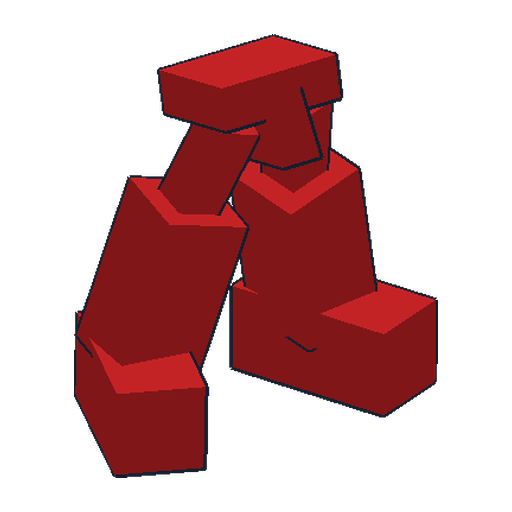
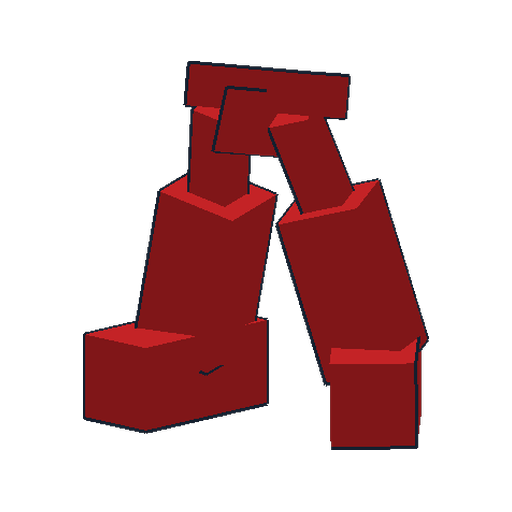
SERA: Godot再撮影19装備アイコンを共通指定プリセットで更新
* test: update shared equipment icon capture expectations to user preset

* test: update shared equipment icon capture expectations to user preset

* test: update shared equipment icon capture expectations to user preset

* test: verify exact user camera orientation on 19 native portraits

* presets: adopt supplied H02 Godot camera as shared equipment icon reference

* capture: render all nineteen parts using exact approved IRIS camera and 76-percent framing

* icons: embed exact user-approved camera metadata in all nineteen Godot PNGs

* ui: align live equipment part preview initial angle with approved icons

* ui: align live equipment part preview initial angle with approved icons

* validate: reject any of nineteen icons lacking approved exact camera settings

* docs: record approved shared 19-icon recapture and CI scope

* docs: record approved shared 19-icon recapture and CI scope

* docs: record approved shared 19-icon recapture and CI scope

* test: migrate H02 canonical capture preset; preserve legacy fallback validation

* assets: register all 19 verified SeraRig photographs [skip ci]

---------

Changed region(s): [[0.125, 0.0625, 0.875, 0.9375]]

diff --git a/tools/icon_studio/tag_all_icons.py b/tools/icon_studio/tag_all_icons.py
@@ -18,9 +18,14 @@ except ImportError:
     from validate_all_icons import ROOT, TARGET, catalog_entries
     from read_sera_icon_png import read_png_metadata
 
-# Matches the real SeraRig -Z front, +X right and +Y top.
-# This is also the initial camera on the live 3D part-viewer.
-OBLIQUE_POSE = (26.0, -146.0, 0.0)
+# One approved H02 preset supplies the exact camera/scale to all 19 icons.
+# Other blueprint IDs retain their own original model and material sources.
+PRESET_PATH = ROOT / "assets/ui/sera_icon_presets/H02.json"
+SHARED_PRESET = json.loads(PRESET_PATH.read_text(encoding="utf-8"))
+PRESET_RENDER = SHARED_PRESET["render"]
+PRESET_ANGLES = PRESET_RENDER["model_rotation_deg"]
+OBLIQUE_POSE = tuple(float(PRESET_ANGLES[axis]) for axis in ("x", "y", "z"))
+CAMERA_AUTO_FIT = float(PRESET_RENDER["auto_fit"])
 ANGLES = {slot: OBLIQUE_POSE for slot in (
     "head", "torso", "arms", "legs", "booster", "weapon_r", "weapon_l")}
 KEY = b"SERA_ICON_MANIFEST_V1"
@@ -55,20 +60,14 @@ def annotate_one(id_: str, entry: dict) -> dict:
             "rig_set": entry["rig_set"],
         },
         "render": {
-            "engine": "SERA Godot GL Compatibility native SubViewport",
+            "engine": PRESET_RENDER["engine"],
             "camera": "orthographic_front",
             "model_rotation_deg": dict(zip(("x", "y", "z"), angles)),
-            "auto_fit": 0.82,
-            "model_scale": 1.0,
-            "pan_clip": {"x": 0.0, "y": 0.0},
-            "outline": {
-                "enabled": True, "stroke_px_at_512": 3,
-                "crease_degrees": 80, "color": "#17212F",
-            },
-            "image": {
-                "width": 512, "height": 512, "background": "transparent",
-                "ui_frame_baked": False,
-            },
+            "auto_fit": CAMERA_AUTO_FIT,
+            "model_scale": PRESET_RENDER["model_scale"],
+            "pan_clip": PRESET_RENDER["pan_clip"],
+            "outline": PRESET_RENDER["outline"],
+            "image": PRESET_RENDER["image"],
             "mesh_transform": "Installed SeraRig MeshInstance3D global transforms",
             "texture_source": "Original in-game SeraRig mesh/material",
         },
@@ -77,8 +76,7 @@ def annotate_one(id_: str, entry: dict) -> dict:
         "outline": "scripts/sera_view_edges.gd + shaders/sera_view_edges.gdshader",
         "lighting": "scripts/main.gd::_build_world",
     }
-    # H02 now follows the same new user-approved camera as all other parts.
-    # The historical preset remains untouched for backward provenance.
+    # Every captured part uses the exact camera, framing, and outline preset.
     png = path.read_bytes()
     if not png.startswith(PNG_SIGNATURE) or png[12:16] != b"IHDR":
         raise ValueError(f"{id_}: invalid Godot capture PNG")

diff --git a/tools/equipment_portrait_ui_contract_self_check.py b/tools/equipment_portrait_ui_contract_self_check.py
@@ -16,23 +16,27 @@ equipment=read("scripts/sera_equipment.gd")
 workflow=read(".github/workflows/sera-model-policy.yml")
 manifest=read("tools/sera_ci_manifest.txt")
 
-# Same top-right three-quarter view, not previous per-slot rotations.
-assert 'const OBLIQUE_POSE: Vector3 = Vector3(26.0, -146.0, 0.0)' in capture
+# All snapshots now use the user's exact IRIS Godot preset as shared camera.
+assert 'const CAMERA_PRESET_PATH: String = "res://assets/ui/sera_icon_presets/H02.json"' in capture
+assert 'var degrees: Dictionary = render.get("model_rotation_deg", {})' in capture
+assert '2.0 * auto_fit * model_scale / span' in capture
 assert "if id == \"H02\":\n            continue" not in capture
 assert 'const POSE_NAMES = ["NEXUS_pose", "NEXUSpose"]' in capture
 assert 'rig.call("_apply_animation", 0.0)' in capture
 assert 'func _equalize_transparent_margins(' in capture
-assert 'SIDE_PADDING: int = 34' in capture
+assert 'var target_side: int = roundi(PIXELS * auto_fit)' in capture
 assert 'alpha > 0.10' in capture
 assert 'count != 19' in capture
-assert 'OBLIQUE_POSE = (26.0, -146.0, 0.0)' in tag
+assert 'PRESET_PATH = ROOT / "assets/ui/sera_icon_presets/H02.json"' in tag
+assert 'OBLIQUE_POSE = tuple(' in tag
+assert '"auto_fit": CAMERA_AUTO_FIT' in tag
 assert 'SERA_ICON_PNG_V1' in tag and 'SERA_ICON_MANIFEST_V1' in tag
 assert 'if id_ == "H02":' not in tag
 assert 'if view_mode == "icon":' not in preview.split("func _apply_preview_standing_pose()",1)[1].split("func _fit_full_body_clearance",1)[0]
 assert "NEXUS_pose" in preview
-# Static icons and the interactive detail preview must share a true front-right.
-assert 'const DEFAULT_YAW: float = -146.0' in viewer
-assert 'const DEFAULT_PITCH: float = 26.0' in viewer
+# The game part viewer initially matches the new approved PNG capture pose.
+assert 'const DEFAULT_YAW: float = 156.900744628906' in viewer
+assert 'const DEFAULT_PITCH: float = 11.8749389648438' in viewer
 
 # B booster alone is red, without modifying the rest of the part variants.
 assert 'if set_id == "B":' in equipment.split("func _attach_back_booster_group",1)[1]

diff --git a/tools/iris_h02_craft_self_check.py b/tools/iris_h02_craft_self_check.py
@@ -18,11 +18,11 @@ assert preset["source"]["repository_path"] == model_path
 assert preset["source"]["fingerprint"] == expected_sha256
 assert preset["equipment"] == {"blueprint_id":"H02","slot":"head","rig_set":"D"}
 r = preset["render"]
-assert r["engine"] == "SERA Icon Studio WebGL" and r["camera"] == "orthographic_front"
-assert r["model_rotation_deg"] == {"x":-17.95108886718749,"y":152.8089099121089,"z":-5}
-assert r["model_scale"] == 1.0311868961757298
-assert r["pan_clip"] == {"x":-0.10036383734809033,"y":-0.052272971159492435}
-assert r["auto_fit"] == 0.82
+assert r["engine"] == "SERA Godot 4.7 GL Compatibility" and r["camera"] == "orthographic_front"
+assert r["model_rotation_deg"] == {"x":11.8749389648438,"y":156.900744628906,"z":0}
+assert r["model_scale"] == 1
+assert r["pan_clip"] == {"x":0,"y":0}
+assert r["auto_fit"] == 0.76
 assert r["outline"] == {"enabled":True,"stroke_px_at_512":3,"crease_degrees":80,"color":"#17212F"}
 assert r["image"] == {"width":512,"height":512,"background":"transparent","ui_frame_baked":False}
 catalog = (ROOT/"scripts/sera_prototype_catalog.gd").read_text(encoding="utf-8")
@@ -90,7 +90,14 @@ while offset < len(raw):
 assert palette_count and alpha and alpha[0]==0
 assert message and message["source"]["fingerprint"] == expected_sha256
 assert message["equipment"] == {"blueprint_id":"H02","slot":"head","rig_set":"D"}
-assert message["render"] == preset["render"]
+# Legacy compressed H02 fallback retains its own historical WebGL capture.
+# The authoritative re-photographed H02 is now the native RGBA PNG loaded
+# first from assets/ui/sera_equipment_icons/H02.png for every game UI.
+assert message["render"]["engine"] == "SERA Icon Studio WebGL"
+assert message["render"]["model_rotation_deg"] == {
+    "x":-17.95108886718749,"y":152.8089099121089,"z":-5
+}
+assert 'var source: Texture2D = _native_equipment_icon(blueprint_id)' in icon_source
 scanlines = zlib.decompress(payload)
 assert len(scanlines) == 512*513
 assert all(scanlines[y*513]==0 for y in range(512))

diff --git a/tools/icon_studio/validate_all_icons.py b/tools/icon_studio/validate_all_icons.py
@@ -46,6 +46,7 @@ def catalog_entries():
 
 def verify_icons():
     entries = catalog_entries()
+    approved = json.loads((ROOT / "assets/ui/sera_icon_presets/H02.json").read_text(encoding="utf-8"))["render"]
     records = {}
     for id_, entry in entries.items():
         source = ROOT / entry["source_model"]
@@ -68,6 +69,12 @@ def verify_icons():
             id_, "stale source fingerprint")
         assert metadata["render"]["image"]["background"] == "transparent", (
             id_, "background must be applied only by the shared game UI")
+        # User-approved H02 camera is applied to each of the 19 photographs,
+        # while source and equipment identity remain unique to each part.
+        for field in ("engine", "camera", "model_rotation_deg", "model_scale",
+                      "pan_clip", "auto_fit", "outline", "image"):
+            assert metadata["render"][field] == approved[field], (
+                id_, field, "shared user-approved icon preset was not applied")
         records[id_] = {**entry, "source_sha256": hashlib.sha256(source.read_bytes()).hexdigest(),
                         "png_sha256": hashlib.sha256(data).hexdigest(),
                         "capture": "SERA native Godot 4.7.2 GL Compatibility"}

diff --git a/tools/icon_studio/godot_native_capture_self_check.py b/tools/icon_studio/godot_native_capture_self_check.py
@@ -7,6 +7,17 @@ from pathlib import Path
 ROOT = Path(__file__).resolve().parents[2]
 preset = json.loads((ROOT / "assets/ui/sera_icon_presets/H02.json").read_text(encoding="utf-8"))
 assert preset["format"] == "SERA_ICON_PRESET_V1"
+assert preset["render"]["model_rotation_deg"] == {
+    "x": 11.8749389648438, "y": 156.900744628906, "z": 0
+}
+assert preset["render"]["auto_fit"] == 0.76
+assert preset["render"]["model_scale"] == 1
+assert preset["render"]["pan_clip"] == {"x": 0, "y": 0}
+assert preset["render"]["engine"] == "SERA Godot 4.7 GL Compatibility"
+assert preset["render"]["outline"] == {
+    "enabled": True, "stroke_px_at_512": 3,
+    "crease_degrees": 80, "color": "#17212F"
+}
 assert preset["equipment"] == {"blueprint_id": "H02", "slot": "head", "rig_set": "D"}
 assert preset["render"]["image"] == {
     "width": 512, "height": 512, "background": "transparent",

diff --git a/tools/native_icon_metadata_self_check.py b/tools/native_icon_metadata_self_check.py
@@ -11,9 +11,10 @@ items = catalog_entries()
 assert len(items) == 19
 assert set(ANGLES) == {"head", "torso", "arms", "legs", "booster", "weapon_r", "weapon_l"}
 native = (ROOT / "tools/icon_studio/sera_all_native_capture.gd").read_text(encoding="utf-8")
-assert OBLIQUE_POSE == (26.0, -146.0, 0.0)
+assert OBLIQUE_POSE == (11.8749389648438, 156.900744628906, 0.0)
 assert all(angle == OBLIQUE_POSE for angle in ANGLES.values())
-assert 'const OBLIQUE_POSE: Vector3 = Vector3(26.0, -146.0, 0.0)' in native
+assert 'const CAMERA_PRESET_PATH: String = "res://assets/ui/sera_icon_presets/H02.json"' in native
+assert '2.0 * auto_fit * model_scale / span' in native
 assert 'func _equalize_transparent_margins(' in native
 assert 'const POSE_NAMES = ["NEXUS_pose", "NEXUSpose"]' in native
 source = ROOT / items["H02"]["source_model"]

diff --git a/docs/SERA_ICON_STUDIO_HANDOFF_POLICY_ja.md b/docs/SERA_ICON_STUDIO_HANDOFF_POLICY_ja.md
@@ -1,3 +1,8 @@
+## 2026-11-22：既存全19装備を共通プリセットで再撮影
+- ユーザーが提示したHEAD D `SERA_ICON_PRESET_V1`のカメラ値X=11.8749389648438/Y=156.900744628906/Z=0、auto_fit=0.76、倍率1、pan=0、輪郭3px/80°を全装備の撮影正本として適用する。正本ファイルは`assets/ui/sera_icon_presets/H02.json`。
+- 本体の正式アイコンは`tools/icon_studio/sera_all_native_capture.gd`が既存19装備の実SeraRigモデルをNEXUS_pose(0秒)で撮影し、透明512px PNGを生成。`tag_all_icons.py`で各装備固有原本と共通カメラ設定を記録、`validate_all_icons.py`で19件検証してゲームのキャッシュへ登録する。
+- 旧X26/Y-146の向きは廃止するが、モデル/アイテム/セーブ/装備性能、透過原本とゲーム内グリッド＋枠は変更しない。Godot単体PART VIEWおよびLABO製作確認の初期カメラも同角度とする。描画はGodot GL Compatibility、ゲーム中の再撮影は禁止。
+
 ## Godot実レンダリングをアイコンの正本とする運用（2026-11-21）
 - **Icon Studio（WebGL）は撮影角度・倍率・平行移動を決める操作UI**として維持します。そこから送られた `SERA_ICON_PRESET_V1` の数値は変えません。
 - **ゲームへ納品する最終アイコンはSERA本体のGodot 4.7.2／GL Compatibilityで一度だけ撮影します。** `tools/icon_studio/sera_godot_native_capture.gd` が実際の `SeraRig` HEAD D 装着用メッシュ／マテリアル／16pxテクスチャを使用し、`scripts/sera_view_edges.gd` と `shaders/sera_view_edges.gdshader` で輪郭線を描きます。照明は戦闘シーン `scripts/main.gd::_build_world` と同じ環境光とDirectionalLightを設定します。

diff --git a/DEVELOPMENT.md b/DEVELOPMENT.md
@@ -1,3 +1,8 @@
+## 2026-11-22 — アイリス指定のカメラ設定で既存19装備をGodot再撮影
+- ユーザー提供SERA_ICON_PRESET_V1を`assets/ui/sera_icon_presets/H02.json`へ反映。旧26/-146°ではなくX=11.8749389648438、Y=156.900744628906、Z=0、auto_fit=0.76を全19装備に適用。素材・3Dモデル・UV・NEXUS_poseを維持。
+- 撮影`sera_all_native_capture.gd`とPNGメタデータ`tag_all_icons.py`を共通プリセット参照に変更し、`validate_all_icons.py`で全19枚の値を検証。既存の設計図UIDやゲーム内アイコンキャッシュ/共通背景は維持。単体3D初期角度とLABO製作確認も合わせた。
+- テスト先行変更：equipment_portrait_ui_contract_self_check.py、native_icon_metadata_self_check.py、godot_native_capture_self_check.py、front_right_orientation_runtime_check.gd。CIで19枚PNGを再レンダリングしPRブランチに書き戻し、マージ後mainでもフルCIを実行。実際の描画/Android表示はCI成果物と実機確認を区別する。
+
 ## 2026-11-22 — Bittaran：落下モーション可変速・4足床接地・復帰前踏み替え（v534）
 - 最新ユーザー指定：原本0.0〜0.5秒は100→30%へ滑らかに減速、0.5〜0.6秒は30%、0.6〜1.75秒は30→基本55%へ加速。再生速度は「原本キーフレーム時刻」に対する割合であり、フレームレート非依存の分割積分で再生する。
 - 部位破壊直後に原本0秒から再生し、原本1.75秒で停止する。モーション開始時点からは倒れ時間に算入しない。着地して初めて従来2.5秒／全脚6.0秒を計時、作者の1.75秒姿勢を維持する。

diff --git a/docs/agent/EQUIPMENT.md b/docs/agent/EQUIPMENT.md
@@ -1,5 +1,12 @@
 # SERA エージェント — 装備・倉庫・モデル受入規則（原本から分離）
 
+## 2026-11-22：19装備アイコンのユーザー指定カメラへ更新
[1 lines of base64/hex data omitted]
+- 既存の全19設計図について**このカメラ設定だけを共通適用**し、各装備の実SeraRigモデル/UV/マテリアル、NEXUS_pose、モデル/装備IDと保存UIDを維持してGodot GLで撮影。古い2026-11-21のX26/Y-146は履歴仕様。
+- 19枚のPNGは各アイテム固有の原本SHA/ブループリントID/部位を維持し、同一の撮影設定をPNGメタデータとして付与。静止表示は既存の透明PNGキャッシュ＋共通グリッド背景＋欠け角枠を使い、ゲーム中の都度3D撮影は禁止。
+- 実行・検証：CIの`sera_all_native_capture.gd`/`tag_all_icons.py`/`validate_all_icons.py`、静的テストとGodot向き判定で検証。Android実機の表示品質は別途確認。
+
+
 ## 2026-11-22：装備3Dプレビュードラッグ上下反転
 - 一指／マウスで下へドラッグするとpitchが増加し、上へドラッグするとpitchが減少する。yaw方向・感度は従来通り。
 - 共通Godotビュー（tools/equipment_intake/godot_preview.gd）は装備フォーム／LABO製作確認／倉庫詳細／NEXUS単体パーツプレビューに共有する。
